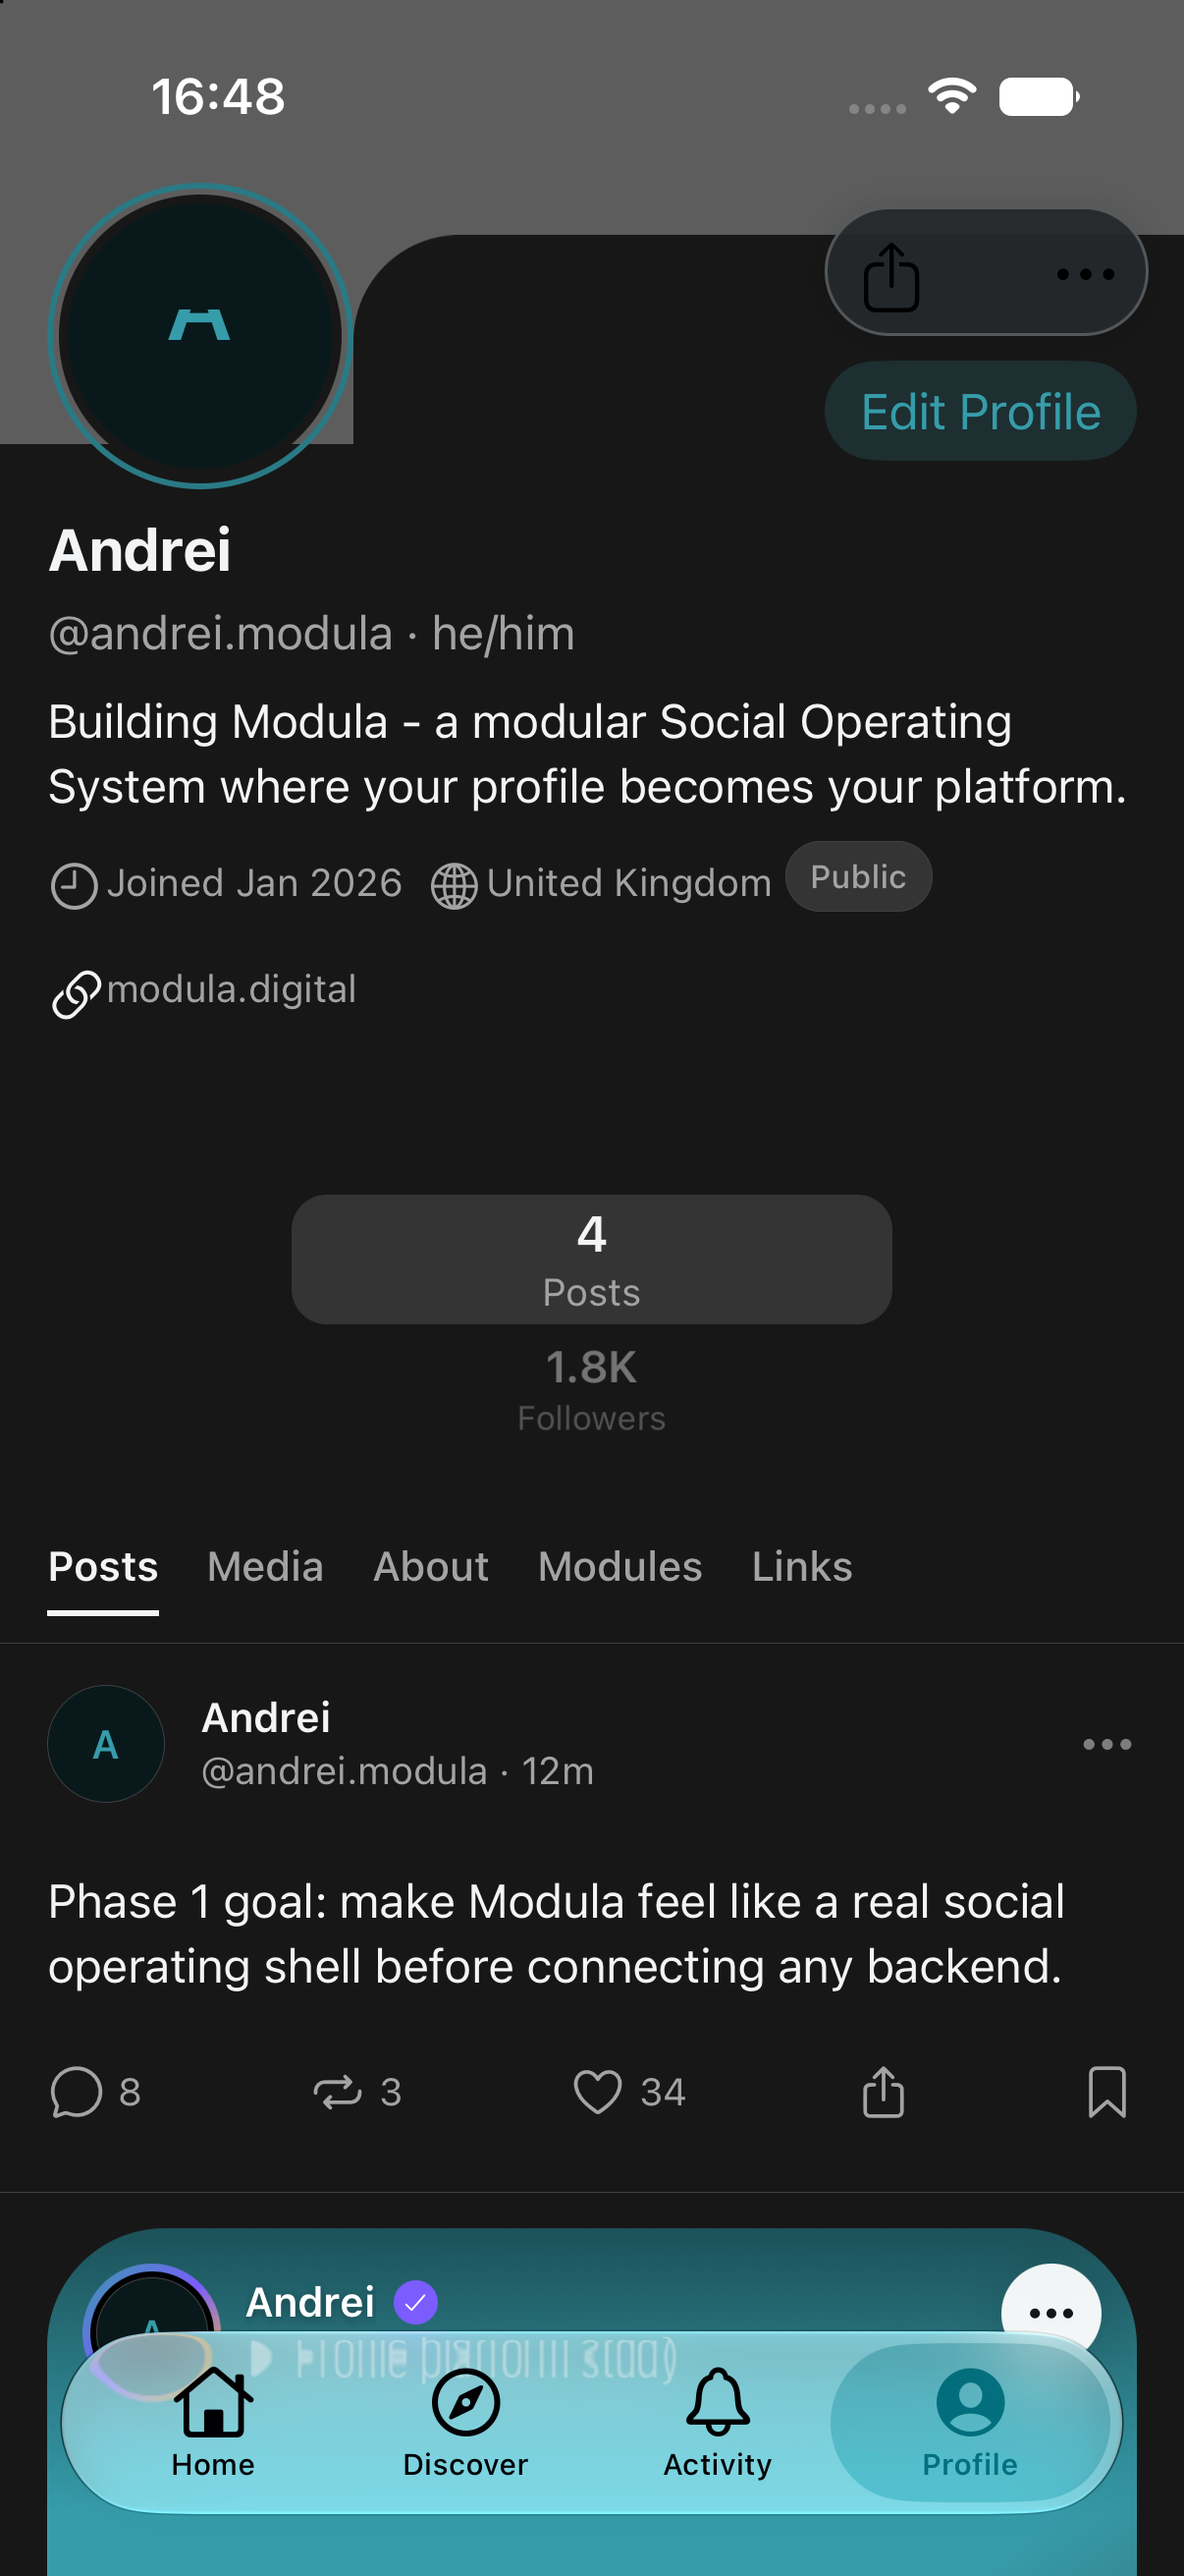
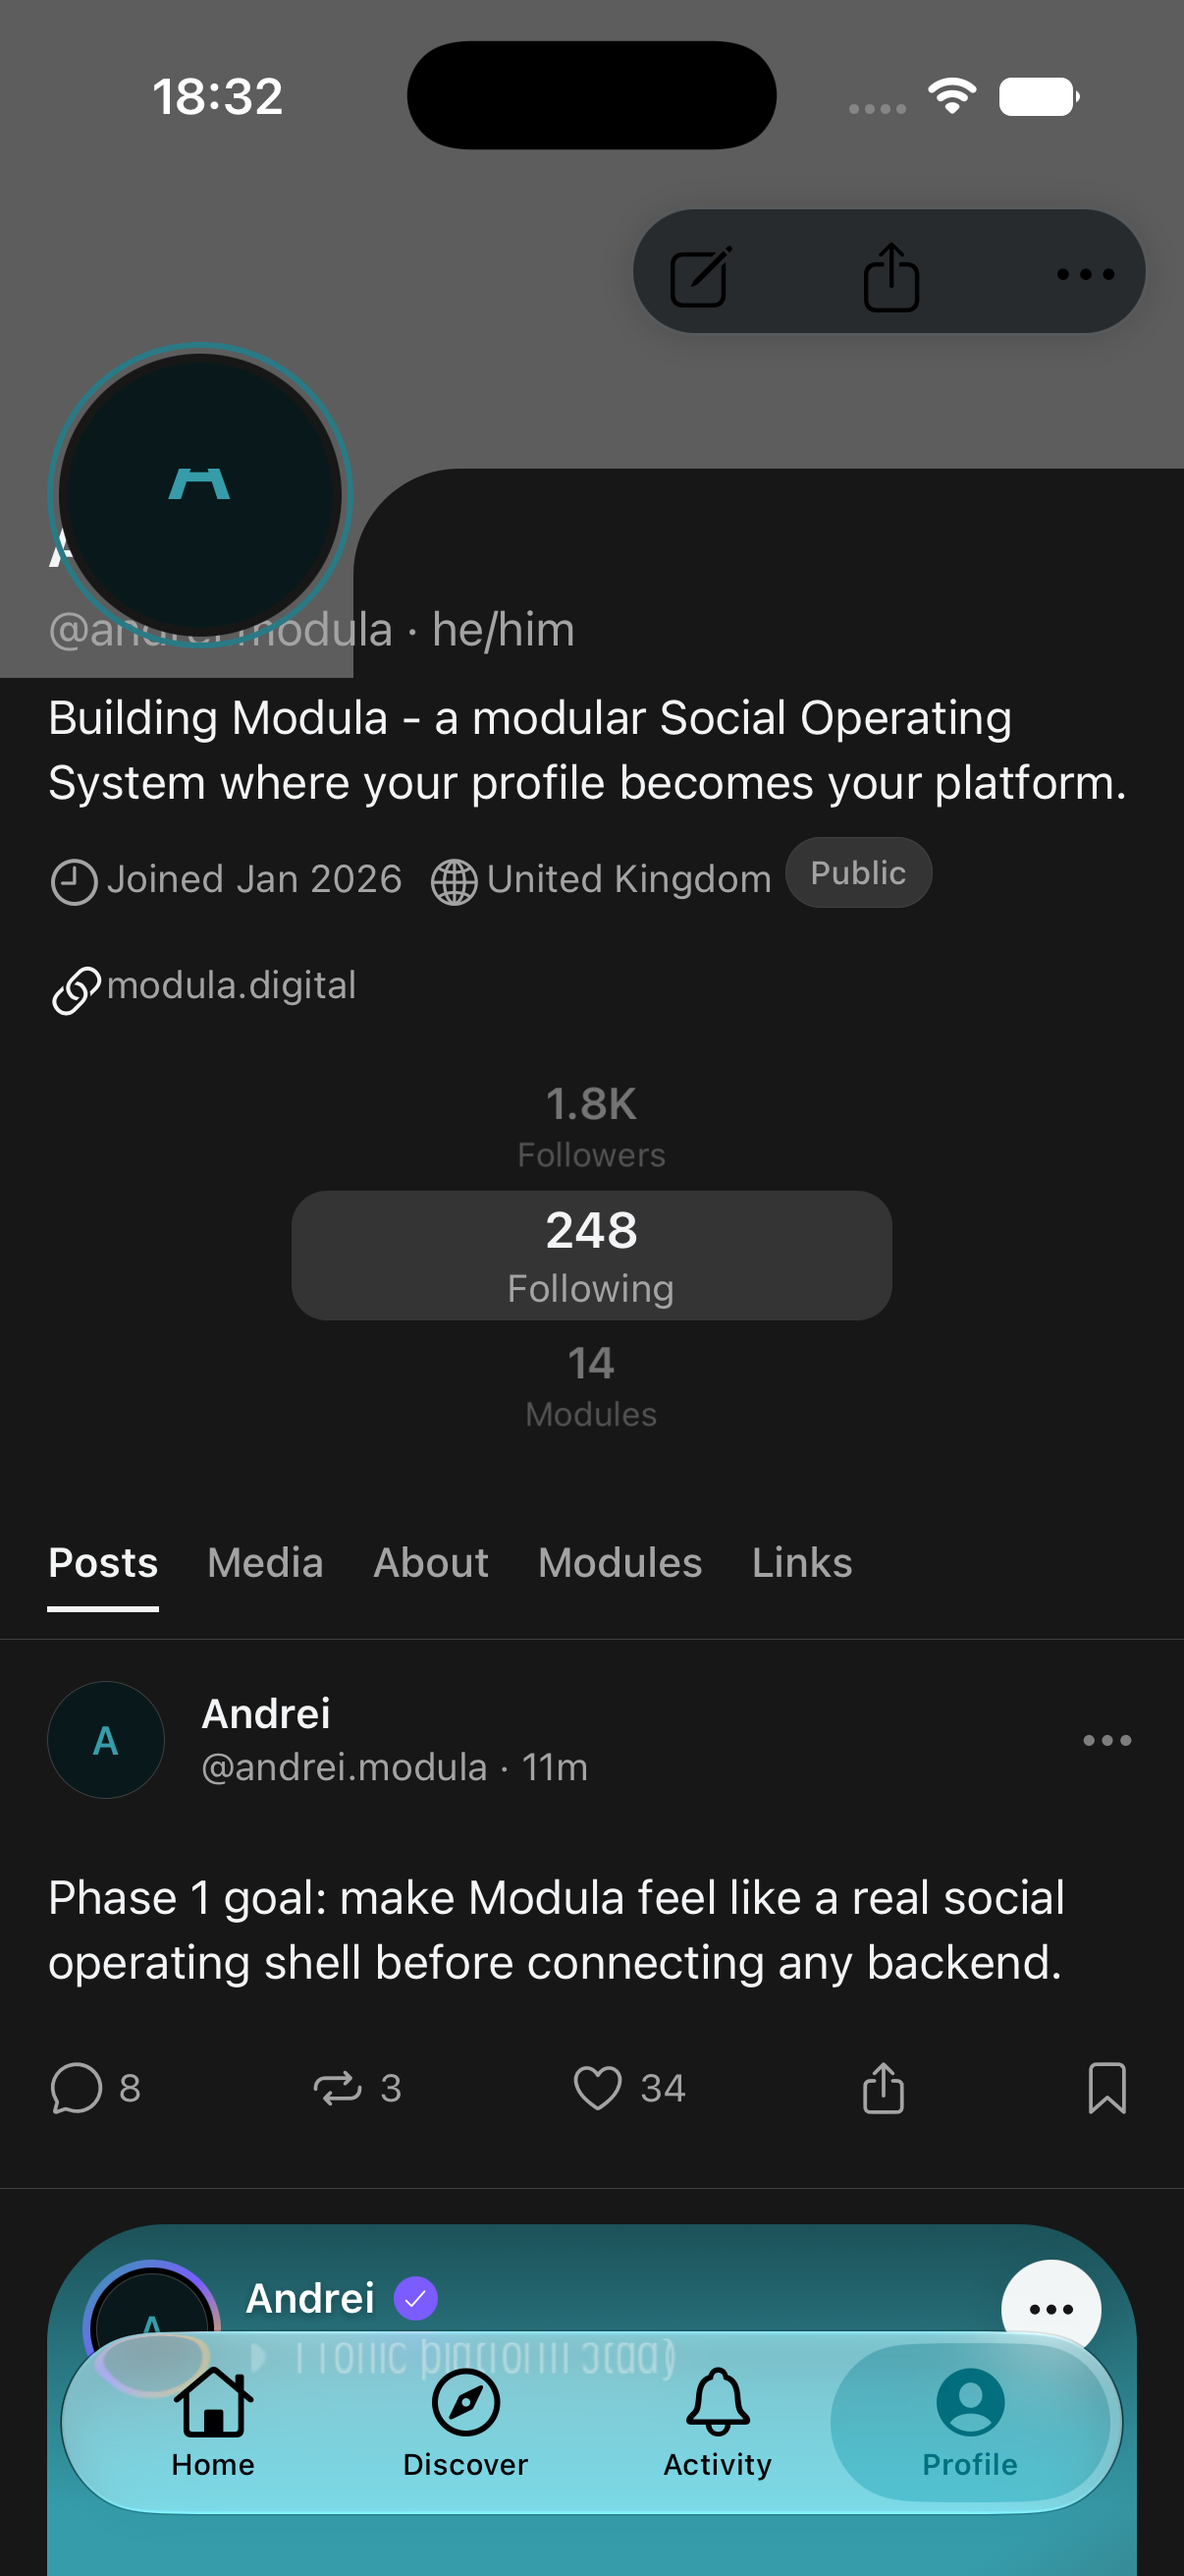
docs(7m-b6): recapture Profile with Edit in the control group
Owner screenshots now show the pencil slot in the cover glass group
instead of the in-hero Edit pill. Keep OVERLAY_GROUP_MIN_WIDTH imported
so Fast Refresh cannot look up a removed StyleSheet binding.

diff --git a/src/platform/ui/menus/chrome-glass-control-group.native.tsx b/src/platform/ui/menus/chrome-glass-control-group.native.tsx
@@ -8,6 +8,7 @@ import {toolbarGroupItemModifiers} from '@/platform/ui/menus/toolbar-chrome-modi
 import {
   OVERLAY_GROUP_GAP,
   OVERLAY_GROUP_HIT,
+  OVERLAY_GROUP_MIN_WIDTH,
   overlayGroupWidth,
   TOOLBAR_HIT,
 } from '@/platform/ui/menus/toolbar-chrome'
@@ -34,6 +35,9 @@ export type ChromeGlassGroupItem = ChromeGlassGroupButton | ChromeGlassGroupMenu
 
 if (OVERLAY_GROUP_HIT !== TOOLBAR_HIT || HEADER_ICON_PAIR_GAP !== OVERLAY_GROUP_GAP) {
   throw new Error('Overlay group must match Profile header sizes (44pt hit, 22pt gap)')
+}
+if (overlayGroupWidth(2) !== OVERLAY_GROUP_MIN_WIDTH) {
+  throw new Error('overlayGroupWidth(2) must equal OVERLAY_GROUP_MIN_WIDTH')
 }
 
 /**

diff --git a/docs/validation/evidence/phase7m-b6/screenshots-profile-evolution/README.md b/docs/validation/evidence/phase7m-b6/screenshots-profile-evolution/README.md
@@ -1,6 +1,8 @@
 # Phase 7M-B6 Profile evolution evidence
 
-Captured 2026-08-16 on **iPhone 17 Pro Simulator** (`0727E2F0-8528-44DA-9F4C-7B5F7394096B`, iOS 27.0) after the cover-lip / picker / sticky-tab fixes. Metro on `cursor/phase7m-b6-profile-evolution-8344`. Local demo-owner session (`@andrei.modula`) — the earlier Modula-org seed was not restored after a Metro cache clear.
+Captured 2026-08-16 on **iPhone 17 Pro Simulator** (`0727E2F0-8528-44DA-9F4C-7B5F7394096B`, iOS 27.0). Metro on `cursor/phase7m-b6-profile-evolution-8344`. Local demo-owner session (`@andrei.modula`).
+
+`01` / `03` / `06` / `07` were recaptured after owner **Edit Profile** moved into the cover glass group (pencil + share + more). There is no in-hero Edit pill.
 
 ```
 PRODUCTION DEPLOYED = NO
@@ -16,18 +18,19 @@ Those files were not OK:
 2. Metric picker used `InvertedSelectedSurface` (bitten gray pill) with neighbor opacity 0.25
 3. Sticky tabs sat at y=0 under the Dynamic Island (Reanimated padding is ignored on iOS sticky clones)
 4. `03` was a duplicate of `01`; `06` / `07` were still Light and showed a scrolled media post
+5. Owner Edit sat as a separate pill beside the avatar instead of in the cover control group
 
 ## What to look at now
 
 | File | Surface | What to look at | Status |
 | --- | --- | --- | --- |
-| `01-profile-owner-empty-cover.png` | Owner / empty cover | Banner under status bar, canvas lip to the right of the avatar, rounded picker pill, tabs, first post | Recaptured |
+| `01-profile-owner-empty-cover.png` | Owner / empty cover | Edit + Share + More in one glass group; no hero Edit pill; canvas lip; rounded picker | Recaptured |
 | `02-profile-owner-photo-cover.png` | Owner / photo cover | Photo under status bar | **Not captured** — demo owner has no `coverUri` |
 | `03-profile-metric-picker.png` | Metric picker | Wheel after an up-swipe; selected surface is a rounded muted rect, not a bitten pill | Recaptured |
 | `04-profile-metric-customize.png` | Customize | Profile Metrics shown list, default metric, Focus Halo | Recaptured |
 | `05-profile-scrolled-tabs.png` | Scrolled | Sticky tabs below the island, NativeTabs still present | Recaptured |
-| `06-profile-dark.png` | Dark | Owner profile header in Dark (Appearance → Dark mode) | Recaptured |
-| `07-profile-oled.png` | OLED | Owner profile header in OLED (Dark depth segmented control) | Recaptured |
+| `06-profile-dark.png` | Dark | Owner header in Dark — three-slot glass group | Recaptured |
+| `07-profile-oled.png` | OLED | Owner header in OLED — three-slot glass group | Recaptured |
 
 ## Known limitations
 
